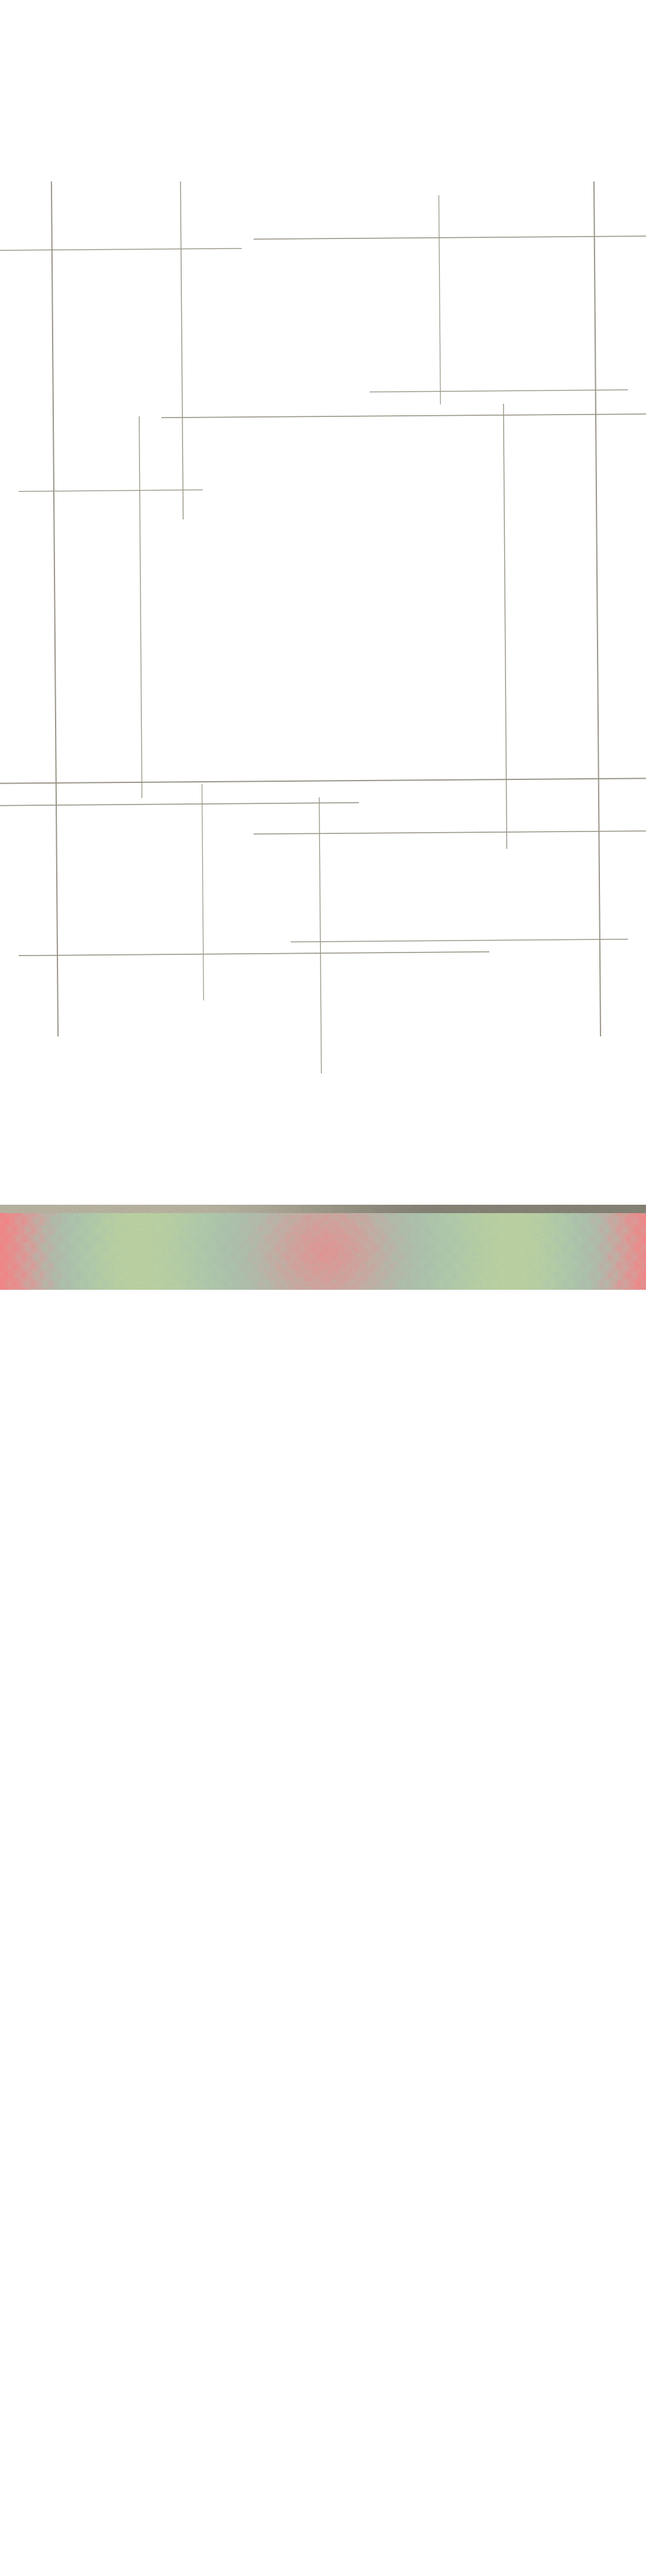
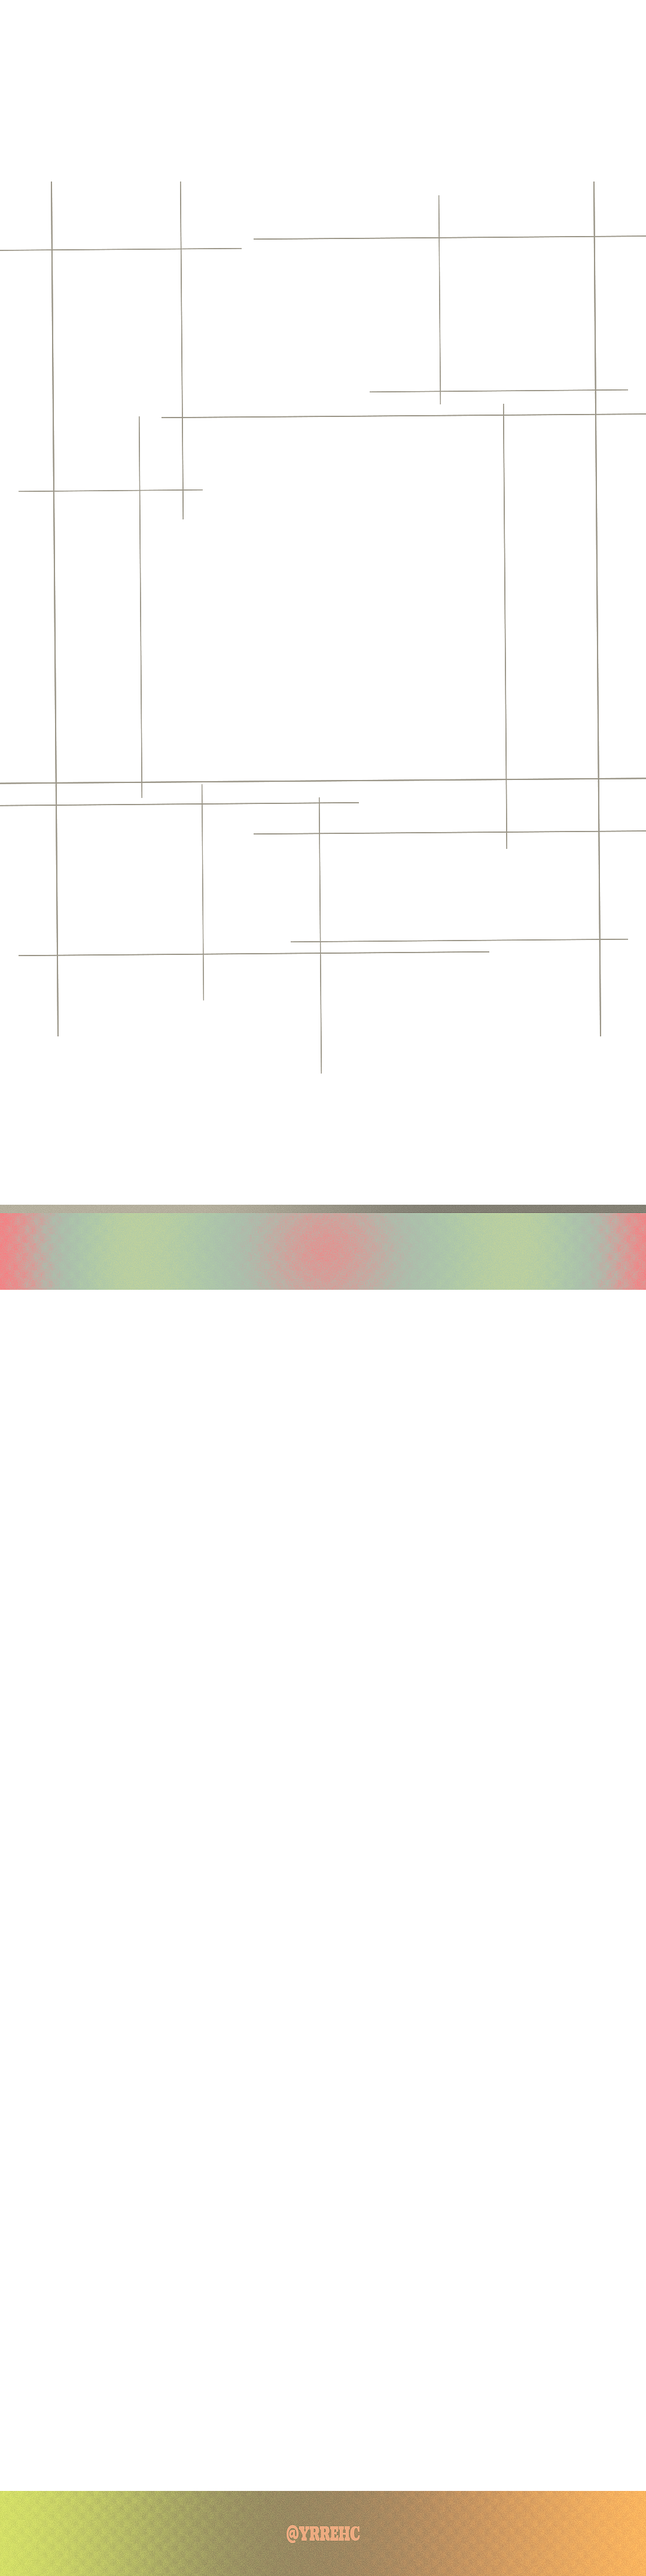
更新

Changed region(s): [[0.0, 0.966, 1.0, 1.0]]

diff --git a/index.html b/index.html
@@ -8,7 +8,7 @@
     <div class="group"><span class="label">字号</span><div class="options sizes"><button class="choice" data-size="12">一咪咪</button><button class="choice" data-size="14">特小</button><button class="choice active" data-size="16">小</button><button class="choice" data-size="18">适中</button><button class="choice" data-size="20">大</button><button class="choice" data-size="23">特大</button></div></div>
     <div class="group"><span class="label">底色与文字</span><div class="palettes" id="palettes"></div></div>
   </aside><main class="legacy-home-main" id="homePoster" aria-label="遗产分割公证会 · 章节目录"><h1 class="legacy-sr-only">遗产分割公证会</h1>
-<div class="legacy-layer legacy-base" style="left:0%;top:0%;width:100%;aspect-ratio:1080/4300" data-layer="1" aria-hidden="true"><img src="assets/legacy-layer-1.png" width="1080" height="4300" alt="" draggable="false"></div>
+<div class="legacy-layer legacy-base" style="left:0%;top:0%;width:100%;aspect-ratio:1080/4300" data-layer="1" aria-hidden="true"><img src="assets/legacy-layer-1.png?v=2" width="1080" height="4300" alt="" draggable="false"></div>
 <div class="legacy-layer legacy-reveal legacy-orbit" style="left:50%;top:32.023256%;width:42.592593%;aspect-ratio:460/199;--orbit-x:50%;--orbit-y:50%;--orbit-duration:180s" data-layer="2" data-reveal="fade" aria-hidden="true"><img class="legacy-turner" src="assets/legacy-layer-2.png" width="460" height="199" alt="" draggable="false"></div>
 <div class="legacy-layer legacy-reveal legacy-orbit" style="left:67.685185%;top:9.186047%;width:24.907407%;aspect-ratio:269/265;--orbit-x:50%;--orbit-y:50%;--orbit-duration:195s" data-layer="3" data-reveal="fade" aria-hidden="true"><img class="legacy-turner" src="assets/legacy-layer-3.png" width="269" height="265" alt="" draggable="false"></div>
 <div class="legacy-layer legacy-reveal legacy-orbit" style="left:7.962963%;top:9.697674%;width:20%;aspect-ratio:216/408;--orbit-x:50%;--orbit-y:50%;--orbit-duration:210s" data-layer="4" data-reveal="fade" aria-hidden="true"><img class="legacy-turner" src="assets/legacy-layer-4.png" width="216" height="408" alt="" draggable="false"></div>
